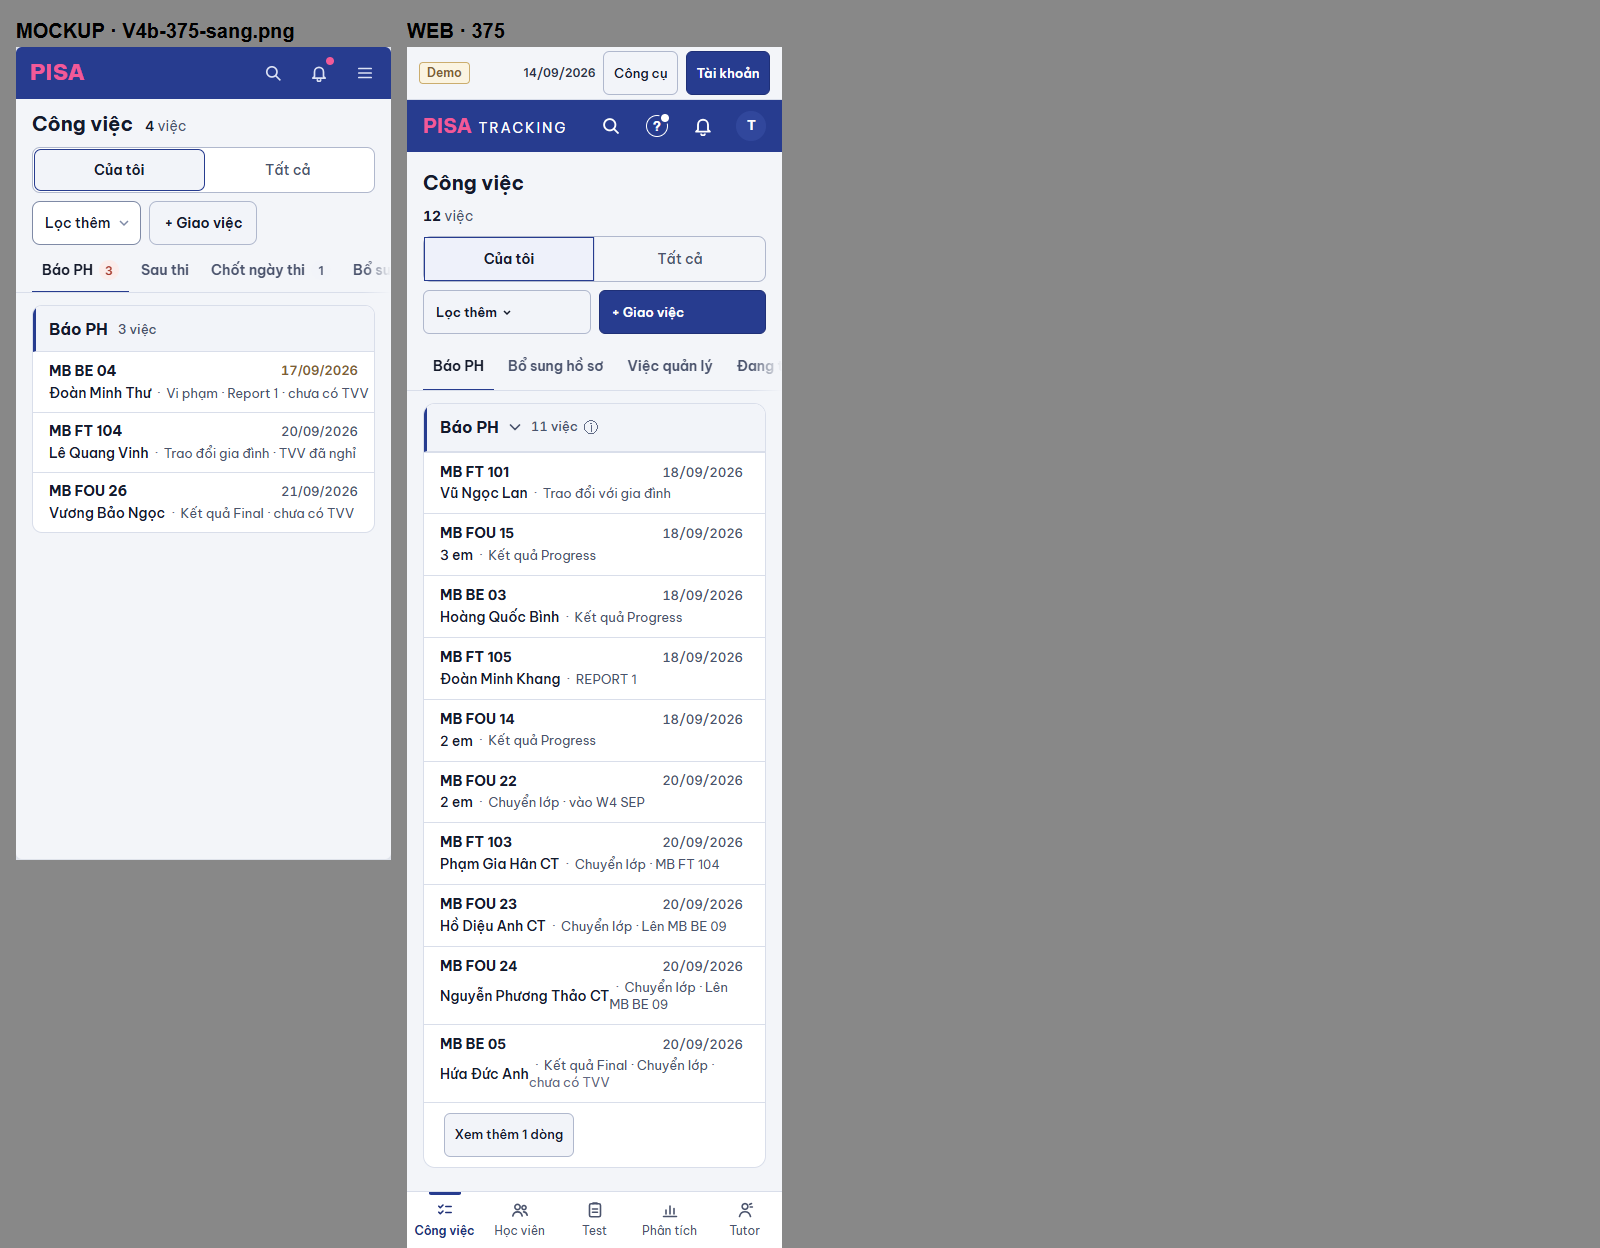
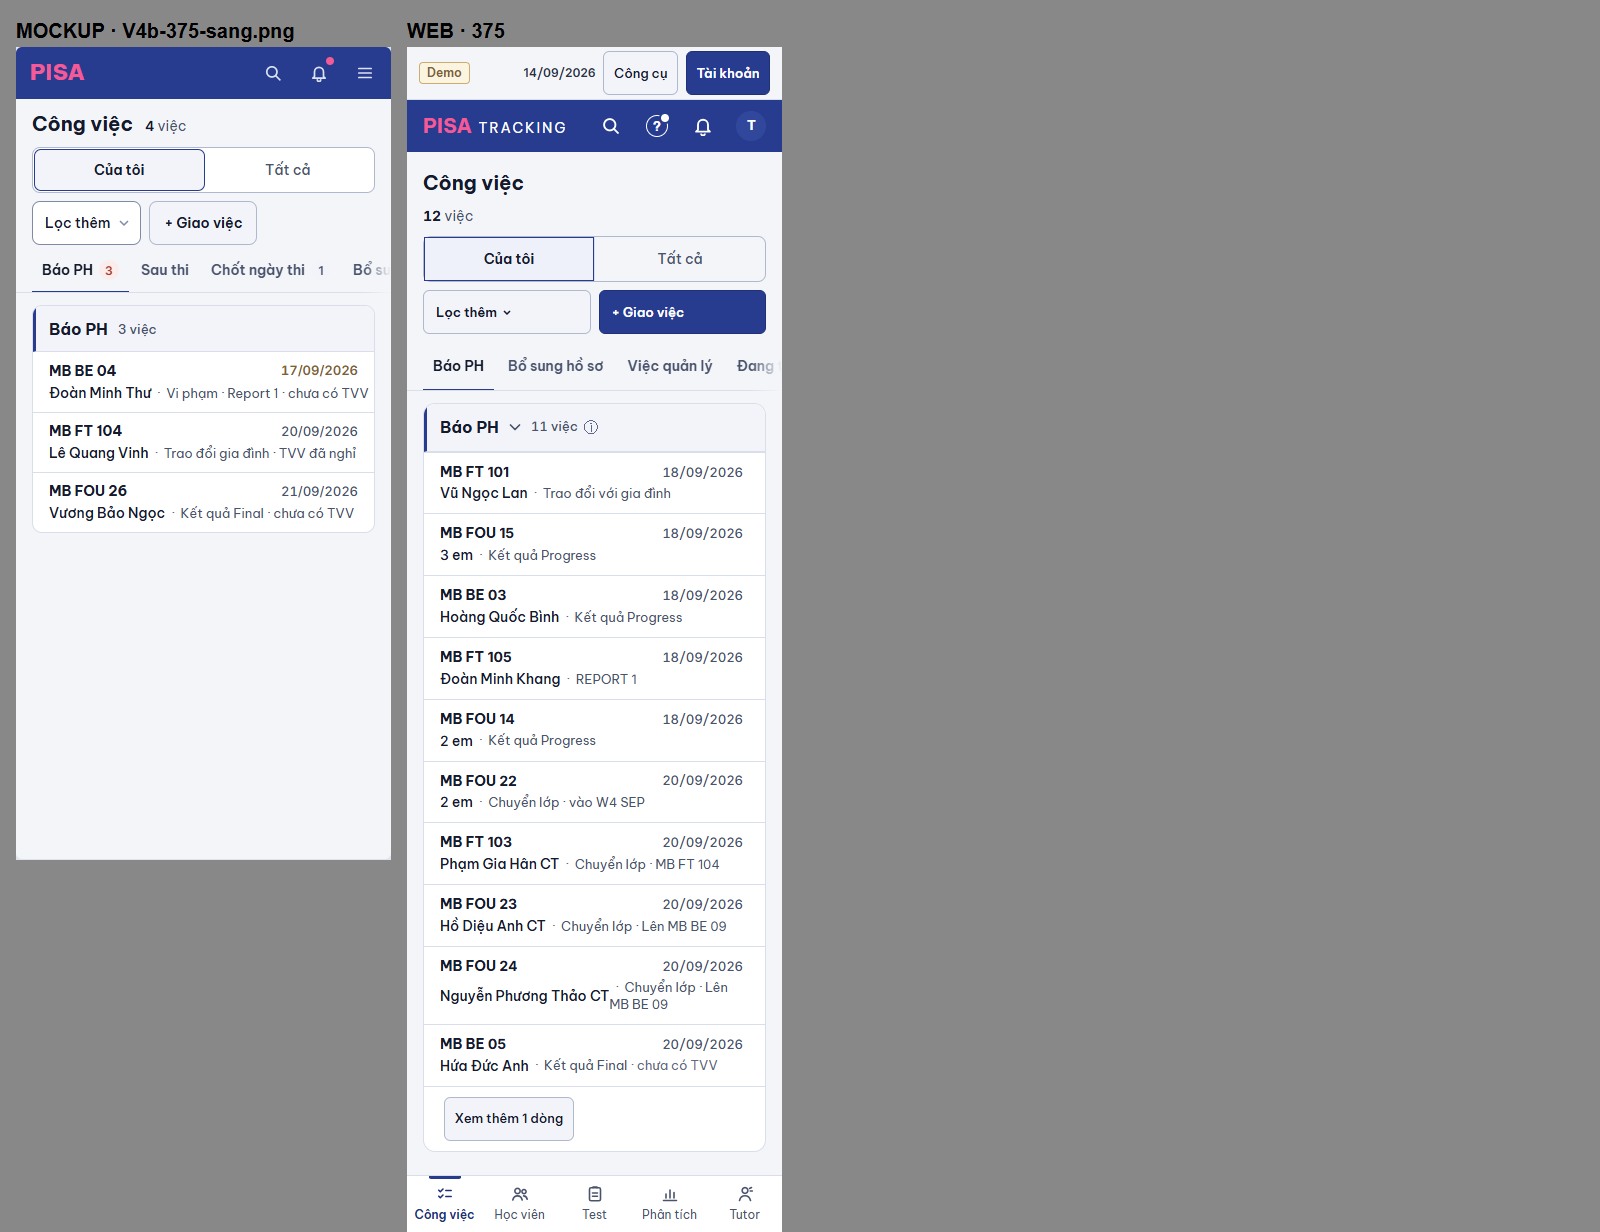
VAI-1 XM-2 (PTA rà ảnh): dòng có lý do TVV giữ một tầng — cụm đầu + 'chưa có TVV' nguyên khối

Changed region(s): [[0.0, 0.0308, 0.5, 0.9562], [0.25, 0.0308, 0.2812, 0.0617], [0.1562, 0.1234, 0.1875, 0.1542]]

diff --git a/web/src/modules/congViec/DanhSachViec.tsx b/web/src/modules/congViec/DanhSachViec.tsx
@@ -580,8 +580,9 @@ function DongA({ it, ghiLoai, mk, ...dong }: ChungDong & { it: WorkItem; ghiLoai
   const ct = chamS ? xepTin([t('{soBai} bài', { soBai: it.soBai ?? 0 }), it.baiQuaHan ? `${it.baiQuaHan} ${t('quá hạn')}` : ''], true, null) : chiTiet(it, gop, diem, ghiLoai, daXong, mk);
   const giao = !daXong && (it.giaoBoi ? t('{ten} giao', { ten: it.giaoBoi }) : it.nguoiTra ? t('{ten} trả', { ten: it.nguoiTra }) : null);
   const tvv = laViecTvvTheoEm(it) && !daXong && !it.choGvSua ? chuTvv(it) : null;
-  const chu = ghepChu([...ct, tvv, giao, it.coNhap ? t('Có nháp') : null]);
   const kt = daXong ? null : chuKhongTvv(it);
+  /* PTA rà #2326: có lý do TVV → ô chi tiết giữ cụm đầu (mockup V4 "Kết quả Final · chưa có TVV") để dòng một tầng; đủ chữ ở title + panel. */
+  const chu = ghepChu([...(kt ? ct.slice(0, 1) : ct), tvv, giao, it.coNhap ? t('Có nháp') : null]);
   const tenNut = tenViecKl ? tenViec(tenBoEmGoc(it)) : motBs ? motBs.ten : aiChu ?? '';
   const sosChip = motEm && !daXong ? chipMucA(it) : null;
   return (
@@ -596,7 +597,7 @@ function DongA({ it, ghiLoai, mk, ...dong }: ChungDong & { it: WorkItem; ghiLoai
           </button>
           {sosChip}
         </span>
-        <span className="cvA-ct" title={kt ? ghepChu([chu, kt]) : chu}>{chu}{kt && <span className="text-faint">{chu ? ' · ' : ''}{kt}</span>}{it.choGvSua && !daXong && <span className="ml-2 inline-flex align-middle"><TheChoGv /></span>}{nguoi && !daXong && <span className="text-faint">{dauGv(chu)}{nguoi}</span>}</span>
+        <span className="cvA-ct" title={kt ? ghepChu([...ct, kt]) : chu}>{chu}{kt && <span className="whitespace-nowrap text-faint">{chu ? ' · ' : ''}{kt}</span>}{it.choGvSua && !daXong && <span className="ml-2 inline-flex align-middle"><TheChoGv /></span>}{nguoi && !daXong && <span className="text-faint">{dauGv(chu)}{nguoi}</span>}</span>
         <HanA it={it} daXong={daXong} />
         {dong.moTrang(it) && it.group !== 'xuat_bc_ph' && !con && !daXong && <MuiDi />}
       </div>
@@ -617,8 +618,8 @@ function DongCon({ it, mk, ghiLoai, ...dong }: ChungDong & { it: WorkItem & { co
   const nEm = diem?.n || it.emIds?.length || it.count || 0;
   const ai = it.studentId !== null || !nEm ? dich(it.conTen) : t('{n} em', { n: nEm });
   const ct = chiTiet(it, false, diem, ghiLoai, daXong, mk);
-  const chu = ghepChu([...ct, it.coNhap ? t('Có nháp') : null]);
   const kt = chuKhongTvv(it);
+  const chu = ghepChu([...(kt ? ct.slice(0, 1) : ct), it.coNhap ? t('Có nháp') : null]);
   return (
     <div data-hd="cv-dong" data-khoa={it.key} onClick={bam} title={bacNgan(dich(it.reason))} className={`cvA-v ${dangChon ? 'dang-chon' : ''} ${daXong ? 'cvA-xong' : ''}`}>
       <span className="cvA-lop" aria-hidden />
@@ -627,7 +628,7 @@ function DongCon({ it, mk, ghiLoai, ...dong }: ChungDong & { it: WorkItem & { co
           {daXong && <span aria-hidden className="text-ok">✓ </span>}<span className={daXong ? 'line-through' : undefined}>{ai}</span></button>
         {!daXong && chipMucA(it)}
       </span>
-      <span className="cvA-ct" title={kt ? ghepChu([chu, kt]) : chu}>{chu}{kt && <span className="text-faint">{chu ? ' · ' : ''}{kt}</span>}{nguoi && !daXong && <span className="text-faint">{dauGv(chu)}{nguoi}</span>}</span>
+      <span className="cvA-ct" title={kt ? ghepChu([...ct, kt]) : chu}>{chu}{kt && <span className="whitespace-nowrap text-faint">{chu ? ' · ' : ''}{kt}</span>}{nguoi && !daXong && <span className="text-faint">{dauGv(chu)}{nguoi}</span>}</span>
       <HanA it={it} daXong={daXong} />
     </div>
   );

diff --git a/thiet-ke/v29/khop-khac-vai-1-xm2.md b/thiet-ke/v29/khop-khac-vai-1-xm2.md
@@ -17,10 +17,10 @@ Mockup không có khung 1280 → web 1280 ghép với V4a.
 | V4a khối "Em chưa có TVV · TVV  Chưa gán · Gán TVV cho em ›" | `KhoiKhongTvv` (PanelBaoPhTvv, cùng khuôn `KhoiChuyenLop` — tiêu đề + `BoiCanh`) | lead-tvv-1440 / 375 | KHỚP |
 | V4a vị trí khối: ngay dưới khối Phụ trách | web: dưới khối Tuyến (Tuyến sẵn có nằm ngay dưới khối giao việc) | lead-tvv-1440 | KHÁC nhỏ — giữ thứ tự sẵn có |
 | "Gán TVV cho em ›" | link "›" sang hồ sơ em mở panel Bổ sung hồ sơ (`viec=bo-sung`, có ô TVV); quyền gán chặn ở máy chủ (đường sửa hồ sơ sẵn có) | — | KHỚP (luật "›" = đổi trang) |
-| V4b dòng 375 một tầng | dòng gộp Kết quả Final · Chuyển lớp dài hơn mockup → ô chi tiết xuống dòng (luật HAI-BEN: không cắt "…") | lead-tvv-ds-375 | KHÁC nhỏ — dữ liệu dài hơn |
+| V4a / V4b mỗi dòng một tầng | có lý do TVV → ô chi tiết giữ cụm đầu + "· chưa có TVV" (như mockup "Kết quả Final · chưa có TVV"); cụm lý do `nowrap`, không "…"; đủ chữ ở title + panel (PTA rà #2326) | lead-tvv-1440 / 1280 / ds-375 | KHỚP |
 | Khối giao việc / Việc con / Lịch sử | sẵn có | mọi ảnh | GIỮ |
 
-Tỉ lệ khớp (KHỚP + GIỮ + KHÁC nhỏ trên tổng): 6 KHỚP / GIỮ · 2 KHÁC nhỏ → 8 / 8 hàng có mặt; tính KHÁC nhỏ nửa → **≈ 94 %**.
+Tỉ lệ khớp (KHỚP + GIỮ + KHÁC nhỏ trên tổng): 7 KHỚP / GIỮ · 1 KHÁC nhỏ; tính KHÁC nhỏ nửa → 7,5 / 8 ≈ **94 %**.
 
 ## Thao tác TRƯỚC → SAU PR
 
@@ -42,7 +42,7 @@ Không mất thao tác nào.
 
 ## [XM]
 
-- Sau thi (Bước tiếp / KQ thi thật) và Bổ sung hồ sơ (dòng gộp) chưa mang cờ — mockup V4 chỉ vẽ Báo PH; thêm khi chủ SP muốn.
+- Sau thi (Bước tiếp / KQ thi thật) và Bổ sung hồ sơ (dòng gộp) chưa mang cờ — PTA chốt: Việc để sau, gộp vào PR máy chủ XM-2 / XM-3 (sau LPB-3).
 
 ## Chú thích `ponytail:`
 
